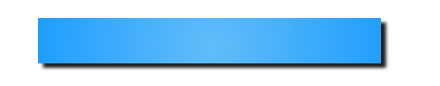
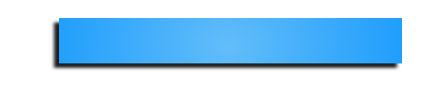
Consolidated A Little More

Changed region(s): [[0.8568, 0.2093, 0.9159, 0.814], [0.0886, 0.2093, 0.1477, 0.814]]

diff --git a/src/main/view/gui/ControlModePanel.java b/src/main/view/gui/ControlModePanel.java
@@ -19,14 +19,16 @@ import org.apache.logging.log4j.Logger;
 public class ControlModePanel extends Panel{
 	private final static Logger log = LogManager.getLogger(ControlModePanel.class);
 	private static final int PANEL_HEIGHT = 114;
-	private static final int PANEL_DISTANCE_MODE = 78;
-	private static final int PANEL_DISTANCE_SUBMODE = 35;
-	private static final int PANEL_DISTANCE_COMMAND = 45;
-	private static final int PANEL_DISTANCE_FROM_LEFT = 5;
-	private static final int COMMAND_PANEL_DISTANCE_FROM_LEFT = -18;
-	private static final int TEXT_SPACING = 48;
-	private static final int TEXT1_LOCATION = 58;
-	private static final int TEXT2_LOCATION = -125;
+	private static final int PANEL_DISTANCE_MODE = 168;
+	private static final int PANEL_DISTANCE_SUBMODE = 335;
+	private static final int PANEL_DISTANCE_COMMAND = PANEL_DISTANCE_MODE - PANEL_HEIGHT;
+	private static final int MAIN_PANEL_DISTANCE_FROM_LEFT = -76;
+	private static final int PANEL_DISTANCE_FROM_LEFT = -18;
+	private static final int COMMAND_PANEL_DISTANCE_FROM_RIGHT = 402;
+	private static final int TEXT_SPACING = 172;
+	private static final int TEXT_SPACING2 = 48;
+	private static final int TEXT1_LOCATION = 13;
+	private static final int TEXT2_LOCATION = -54;
 	private int width;
 	private int height;
 	private Font modeFont = Assets.getInstance().getFont(1);
@@ -60,7 +62,7 @@ public class ControlModePanel extends Panel{
 	}
 	
 	private void drawCommandPanel(Graphics g) {
-		g.drawImage(Assets.getInstance().getImage("GUI_COMMAND_PANEL"), COMMAND_PANEL_DISTANCE_FROM_LEFT - 20
+		g.drawImage(Assets.getInstance().getImage("GUI_COMMAND_PANEL"), width - COMMAND_PANEL_DISTANCE_FROM_RIGHT
 				, PANEL_DISTANCE_COMMAND, null);
 	}
 
@@ -97,38 +99,38 @@ public class ControlModePanel extends Panel{
 	}
 
 	private void drawModeStrings(Graphics g) {
-		g.drawString(modeString[0], 30, height/2 - PANEL_DISTANCE_MODE - TEXT1_LOCATION);
-		g.drawString(modeString[1], 30, height/2 - PANEL_DISTANCE_MODE - TEXT1_LOCATION + TEXT_SPACING);
-		g.drawString(modeString[2], 30, height/2 - PANEL_DISTANCE_MODE - TEXT1_LOCATION + 2*TEXT_SPACING);
-		g.drawString(modeString[3], 30, height/2 - PANEL_DISTANCE_MODE - TEXT1_LOCATION + 3*TEXT_SPACING);
+		g.drawString(modeString[0], TEXT1_LOCATION, PANEL_DISTANCE_MODE - 63);
+		g.drawString(modeString[1], TEXT1_LOCATION + TEXT_SPACING, PANEL_DISTANCE_MODE - 63);
+		g.drawString(modeString[2], TEXT1_LOCATION + 2*TEXT_SPACING, PANEL_DISTANCE_MODE - 63);
+		g.drawString(modeString[3], TEXT1_LOCATION + 3*TEXT_SPACING, PANEL_DISTANCE_MODE - 63);
 	}
 	
 	private void drawSubmodeStrings(Graphics g) { 
-		g.drawString(submodeString[mode][0], 30, height/2 - PANEL_DISTANCE_SUBMODE - TEXT2_LOCATION);
-		g.drawString(submodeString[mode][1], 30, height/2 - PANEL_DISTANCE_SUBMODE - TEXT2_LOCATION + TEXT_SPACING);
-		g.drawString(submodeString[mode][2], 30, height/2 - PANEL_DISTANCE_SUBMODE - TEXT2_LOCATION + 2*TEXT_SPACING);
-		g.drawString(submodeString[mode][3], 30, height/2 - PANEL_DISTANCE_SUBMODE - TEXT2_LOCATION + 3*TEXT_SPACING);
+		g.drawString(submodeString[mode][0], 10, height - PANEL_DISTANCE_SUBMODE - TEXT2_LOCATION);
+		g.drawString(submodeString[mode][1], 10, height - PANEL_DISTANCE_SUBMODE - TEXT2_LOCATION + TEXT_SPACING2);
+		g.drawString(submodeString[mode][2], 10, height - PANEL_DISTANCE_SUBMODE - TEXT2_LOCATION + 2*TEXT_SPACING2);
+		g.drawString(submodeString[mode][3], 10, height - PANEL_DISTANCE_SUBMODE - TEXT2_LOCATION + 3*TEXT_SPACING2);
 	}
 	
 	private void drawModePanel(Graphics g) {
-		g.drawImage(Assets.getInstance().getImage("GUI_MODE_PANEL"), PANEL_DISTANCE_FROM_LEFT
-				, height/2 - PANEL_DISTANCE_MODE - PANEL_HEIGHT, null);
+		g.drawImage(Assets.getInstance().getImage("GUI_MAIN_MODE_PANEL"), MAIN_PANEL_DISTANCE_FROM_LEFT
+				, PANEL_DISTANCE_MODE - PANEL_HEIGHT, null);
 		switch(mode) {
 			case 0:
-				g.drawImage(Assets.getInstance().getImage("GUI_MODE_SELECTED1"), PANEL_DISTANCE_FROM_LEFT
-						, height/2 - PANEL_DISTANCE_MODE - PANEL_HEIGHT, null);
+				g.drawImage(Assets.getInstance().getImage("GUI_MAIN_MODE_SELECTED1"), MAIN_PANEL_DISTANCE_FROM_LEFT
+						, PANEL_DISTANCE_MODE - PANEL_HEIGHT, null);
 				break;
 			case 1:
-				g.drawImage(Assets.getInstance().getImage("GUI_MODE_SELECTED2"), PANEL_DISTANCE_FROM_LEFT
-						, height/2 - PANEL_DISTANCE_MODE - PANEL_HEIGHT, null);
+				g.drawImage(Assets.getInstance().getImage("GUI_MAIN_MODE_SELECTED2"), MAIN_PANEL_DISTANCE_FROM_LEFT
+						, PANEL_DISTANCE_MODE - PANEL_HEIGHT, null);
 				break;
 			case 2:
-				g.drawImage(Assets.getInstance().getImage("GUI_MODE_SELECTED3"), PANEL_DISTANCE_FROM_LEFT
-						, height/2 - PANEL_DISTANCE_MODE - PANEL_HEIGHT, null);
+				g.drawImage(Assets.getInstance().getImage("GUI_MAIN_MODE_SELECTED3"), MAIN_PANEL_DISTANCE_FROM_LEFT
+						, PANEL_DISTANCE_MODE - PANEL_HEIGHT, null);
 				break;
 			case 3:
-				g.drawImage(Assets.getInstance().getImage("GUI_MODE_SELECTED4"), PANEL_DISTANCE_FROM_LEFT
-						, height/2 - PANEL_DISTANCE_MODE - PANEL_HEIGHT, null);
+				g.drawImage(Assets.getInstance().getImage("GUI_MAIN_MODE_SELECTED4"), MAIN_PANEL_DISTANCE_FROM_LEFT
+						, PANEL_DISTANCE_MODE - PANEL_HEIGHT, null);
 				break;
 			default:
 				log.warn("Invalid Mode to display");
@@ -138,24 +140,24 @@ public class ControlModePanel extends Panel{
 	
 	private void drawSubmodePanel(Graphics g) {
 		g.drawImage(Assets.getInstance().getImage("GUI_MODE_PANEL"), PANEL_DISTANCE_FROM_LEFT,
-				height/2 + PANEL_DISTANCE_SUBMODE ,null);
+				height - PANEL_DISTANCE_SUBMODE ,null);
 		if (mode != 0) {
 			switch(submode) {
 			case 0:
 				g.drawImage(Assets.getInstance().getImage("GUI_MODE_SELECTED1"), PANEL_DISTANCE_FROM_LEFT
-						, height/2 + PANEL_DISTANCE_SUBMODE, null);
+						, height - PANEL_DISTANCE_SUBMODE, null);
 				break;
 			case 1:
 				g.drawImage(Assets.getInstance().getImage("GUI_MODE_SELECTED2"), PANEL_DISTANCE_FROM_LEFT
-						, height/2 + PANEL_DISTANCE_SUBMODE, null);
+						, height - PANEL_DISTANCE_SUBMODE, null);
 				break;
 			case 2:
 				g.drawImage(Assets.getInstance().getImage("GUI_MODE_SELECTED3"), PANEL_DISTANCE_FROM_LEFT
-						, height/2 + PANEL_DISTANCE_SUBMODE, null);
+						, height - PANEL_DISTANCE_SUBMODE, null);
 				break;
 			case 3:
 				g.drawImage(Assets.getInstance().getImage("GUI_MODE_SELECTED4"), PANEL_DISTANCE_FROM_LEFT
-						, height/2 + PANEL_DISTANCE_SUBMODE, null);
+						, height - PANEL_DISTANCE_SUBMODE, null);
 			default:
 				log.warn("Invalid Submode to display");
 			}
@@ -195,7 +197,7 @@ public class ControlModePanel extends Panel{
 			commandString = "None";
 		}
 		
-		g.drawString(commandString, COMMAND_PANEL_DISTANCE_FROM_LEFT + 30, PANEL_DISTANCE_COMMAND + 48);
+		g.drawString(commandString, width - COMMAND_PANEL_DISTANCE_FROM_RIGHT + 73, PANEL_DISTANCE_COMMAND + 49);
 	}
 
 }

diff --git a/src/main/game/Assets.java b/src/main/game/Assets.java
@@ -33,6 +33,13 @@ public class Assets {
 	private static final String GUI_MODE_SELECTED3 = "assets/gui/mode/selected3.png";
 	private static final String GUI_MODE_SELECTED4 = "assets/gui/mode/selected4.png";
 	
+
+	private static final String GUI_MAIN_MODE_PANEL = "assets/gui/mode/mainModePanel.png";
+	private static final String GUI_MAIN_MODE_SELECTED1 = "assets/gui/mode/selectedMode1.png";
+	private static final String GUI_MAIN_MODE_SELECTED2 = "assets/gui/mode/selectedMode2.png";
+	private static final String GUI_MAIN_MODE_SELECTED3 = "assets/gui/mode/selectedMode3.png";
+	private static final String GUI_MAIN_MODE_SELECTED4 = "assets/gui/mode/selectedMode4.png";
+	
 	private static final String TERRAIN_SAND = "assets/terrain/sand.png";
 	private static final String TERRAIN_GRASS = "assets/terrain/grass.png";
 	private static final String TERRAIN_WATER1 = "assets/terrain/water1.png";
@@ -130,6 +137,16 @@ public class Assets {
 		
 		loadItem("GUI_COMMAND_PANEL", GUI_COMMAND_PANEL);
 		loadItem("GUI_MINI_MAP_BORDER", GUI_MINI_MAP_BORDER);
+		
+		
+
+		loadItem("GUI_MAIN_MODE_PANEL", GUI_MAIN_MODE_PANEL);
+		loadItem("GUI_MAIN_MODE_SELECTED1", GUI_MAIN_MODE_SELECTED1);
+		loadItem("GUI_MAIN_MODE_SELECTED2", GUI_MAIN_MODE_SELECTED2);
+		loadItem("GUI_MAIN_MODE_SELECTED3", GUI_MAIN_MODE_SELECTED3);
+		loadItem("GUI_MAIN_MODE_SELECTED4", GUI_MAIN_MODE_SELECTED4);
+		
+		
 		loadItem("GUI_MODE_PANEL", GUI_MODE_PANEL);
 		loadItem("GUI_MODE_SELECTED1", GUI_MODE_SELECTED1);
 		loadItem("GUI_MODE_SELECTED2", GUI_MODE_SELECTED2);
